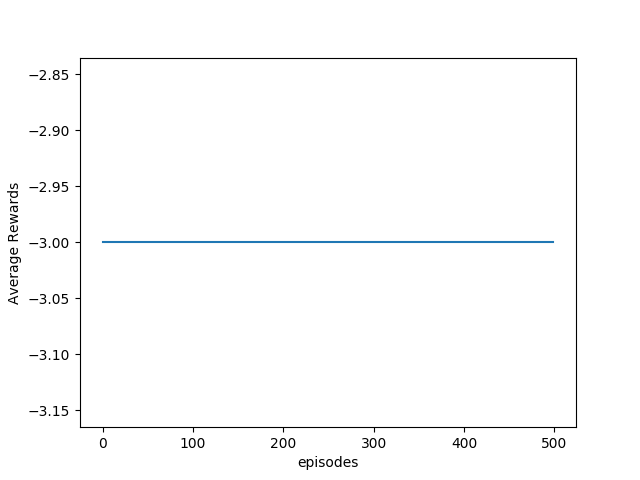
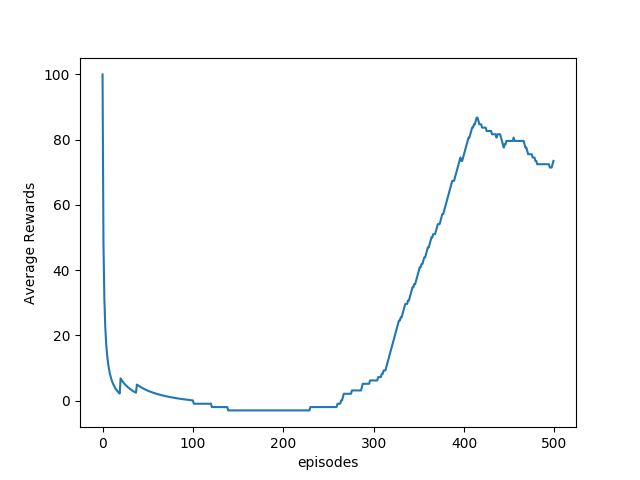
change hyperparameters like deepmind

diff --git a/pythonsection/atari_agent.py b/pythonsection/atari_agent.py
@@ -10,9 +10,9 @@ from tqdm import tqdm
 from env import env
 import sys
 
-MAX_EXPERIENCES = 50000  #500000
-MIN_EXPERIENCES = 5000
-TARGET_UPDATE_PERIOD = 1000
+MAX_EXPERIENCES = 1000000 #500000
+MIN_EXPERIENCES = 50000
+TARGET_UPDATE_PERIOD = 10000
 K = 5
 MAX_STEP=100
 np.random.seed(3);
@@ -40,7 +40,7 @@ def learn(model, targets_model, experience_replay_buffer, gamma, batch_size):
     samples = random.sample(experience_replay_buffer, batch_size)
     states, actions, rewards, next_states, dones = map(np.array, zip(*samples))
     next_Qs = targets_model.predict(next_states)
-    next_Q = np.argmax(next_Qs, axis=1)
+    next_Q = np.amax(next_Qs, axis=1)
     targets = rewards + np.invert(dones).astype(np.float32) * gamma * next_Q
 
     loss = model.update(states, actions, targets)
@@ -59,8 +59,8 @@ class DQN:
             self.G = tf.placeholder(tf.float32, shape=(None,), name='G')
             self.actions = tf.placeholder(tf.int32, shape=(None,), name='actions')
 
-            fc1 = tf.contrib.layers.fully_connected(self.X, 128, activation_fn=tf.nn.relu)
-            fc2 = tf.contrib.layers.fully_connected(fc1, 64, activation_fn=tf.nn.relu)
+            fc1 = tf.contrib.layers.fully_connected(self.X, 32, activation_fn=tf.nn.relu)
+            fc2 = tf.contrib.layers.fully_connected(fc1, 18, activation_fn=tf.nn.relu)
 
             self.predict_op = tf.contrib.layers.fully_connected(fc2, K)
 
@@ -84,7 +84,9 @@ class DQN:
         self.session = sess
 
     def predict(self, states):
-        return self.session.run(self.predict_op, feed_dict={self.X:states})
+        tmp = self.session.run(self.predict_op, feed_dict={self.X:states})
+        #return self.session.run(self.predict_op, feed_dict={self.X:states})
+        return tmp
     
     def sample_action(self, x, eps):
         if np.random.random() < eps:
@@ -128,6 +130,7 @@ class DQN:
 
 if __name__ == '__main__':
     number_enemy = int(sys.argv[1])
+    num_action_act = [0,0,0,0,0]
     gamma = 0.99
     batch_sz = 32 
     num_episodes = 500 
@@ -142,7 +145,7 @@ if __name__ == '__main__':
 
     epsilon = 1.0
     epsilon_min = 0.1
-    epsilon_change = (epsilon - epsilon_min) / 5000 #500000
+    epsilon_change = (epsilon - epsilon_min) / 10000#500000
 
     model = DQN(K=K, input_shape=2 + 2*number_enemy, scope="model")
     target_model = DQN(K=K, input_shape=2 + 2*number_enemy, scope="target_model")
@@ -160,9 +163,10 @@ if __name__ == '__main__':
         #while True:
         #    env.reset()
 
-        for i in range(MIN_EXPERIENCES):
-        #for i in tqdm(range(MIN_EXPERIENCES)):
+        #for i in range(MIN_EXPERIENCES):
+        for i in tqdm(range(MIN_EXPERIENCES)):
             action = np.random.randint(0,K)
+            num_action_act[action] +=1
             obs, reward, done, _, full_msg= env.step(action,full_msg)
             #time.sleep(0.5)
             #print(obs)
@@ -179,7 +183,7 @@ if __name__ == '__main__':
             else:
                 state = next_state
 
-
+        print(num_action_act)
 
         for i in range(num_episodes):
             t0 = datetime.now()
@@ -202,6 +206,7 @@ if __name__ == '__main__':
                     print("Copied model parameters to target network, total_t = %s, period = %s" % (total_t, TARGET_UPDATE_PERIOD))
                 
                 action = model.sample_action(state, epsilon)
+                num_action_act[action] +=1
                 time_act = datetime.now()
                 obs, reward, done, _ , full_msg= env.step(action, full_msg)
                 #time.sleep(0.05)
@@ -263,6 +268,7 @@ if __name__ == '__main__':
         plt.ylabel('Average Rewards')
 #        plt.show()
         plt.savefig('result.png')
+        print(num_action_act)
         #env.close()
             
 
